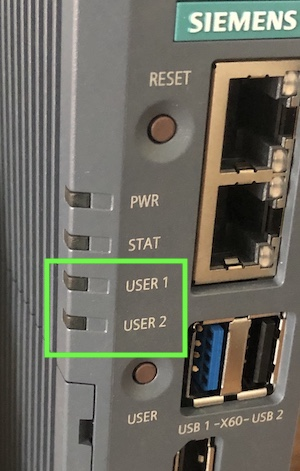
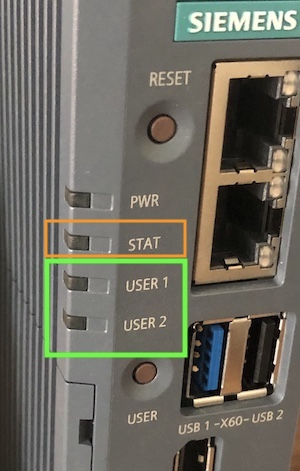
adds stats led description to user documentation

Changed region(s): [[0.12, 0.4459, 0.63, 0.5648]]

diff --git a/user-docs/i18n/jp/docusaurus-plugin-content-docs/current/LedStatusDisplay.md b/user-docs/i18n/jp/docusaurus-plugin-content-docs/current/LedStatusDisplay.md
@@ -2,46 +2,66 @@
 title: ステータスLED
 ---
 
-# ステータスLED
+# ステータス LED
 
 ## はじめに
 
-IoTconnector flexの現在の実行状況は、IoTconnector flexデバイスLEDの点灯状態で確認できます。
+There are 4 different LEDs on the `SIEMENS SIMATIC IOT2050` device:
+![IoTconnector flexのLED](/img/IoT2050Leds.png)
 
-`IoTconnector flex`デバイスには、2つのLEDがあります:
+- PWR: Displays the power status of the machine.
+- STAT: Displays the status of the Operating System (CELOS X)
+- USER 1 and USER 2: Controlled by the IoTconnector flex to display various purposes and explained below.
+
+### States of STAT LED
+
+The current status of the CELOS X Operating System is visualized by using the STATS LED of the device.
+
+| Status                                                                                                                                   | STATS LED             |
+| ---------------------------------------------------------------------------------------------------------------------------------------- | --------------------- |
+| U-Boot running (LED remains red if there is an error within U-Boot)                                                                      | RED                   |
+| GRUB running                                                                                                                             | ORANGE                |
+| GRUB fails to boot                                                                                                                       | RED BLINKING (1 Hz)   |
+| CELOS OS running with online connection                                                                                                  | GREEN                 |
+| CELOS OS running without online connection (at least one of the components cumulocity-agent, Netservice, CELOS Xchange is not connected) | GREEN BLINKING (1 Hz) |
+| CELOS OS emergency mode (i.e. unlock-data failed)                                                                                        | RED BLINKING (2 Hz)   |
+
+### USER 1 and USER 2 LEDs
+
+IoTconnector flex の現在の実行状況は、IoTconnector flex デバイス LED の点灯状態で確認できます。
+
+There are two different LEDs on the `SIEMENS SIMATIC IOT2050` device that are reflecting status of IoTconnector flex:
 
 - USER 1
 - USER 2
 
-![IoTconnector flexのLED](/img/IoT2050Leds.png)
-
-各LEDの点灯色は3種類あります:
+各 LED の点灯色は 3 種類あります:
 
 - 緑
 - 赤
 - オレンジ
 
-### USER 1 LEDの状態
+#### USER 1 LED の状態
 
 USER 1 の LED は、現在のコンフィギュレーション状態を表示します:
 
 - オレンジの点滅 (設定されていない/利用規約に同意していない)
-- オレンジ ([`設定済み`](LedStatusDisplay.md#what-does-configured-mean) だが、NCに接続されていない)
-- 緑 ([`設定済み`](LedStatusDisplay.md#what-does-configured-mean) かつ、NCに正常に接続されている)
+- オレンジ ([`設定済み`](LedStatusDisplay.md#what-does-configured-mean) だが、NC に接続されていない)
+- 緑 ([`設定済み`](LedStatusDisplay.md#what-does-configured-mean) かつ、NC に正常に接続されている)
 
-### USER 2 LEDの状態
+#### USER 2 LED の状態
 
-USER 2 LEDは2つの状態しかありません:
+USER 2 LED は 2 つの状態しかありません:
 
-- 消灯 (IoTconnector flexは動作していません)
-- 緑 (IoTconnector flexは動作しています)
+- 消灯 (IoTconnector flex は動作していません)
+- 緑 (IoTconnector flex は動作しています)
 - 赤点滅 (ライセンスがありません)
 
-### コンフィギュレーションとは何ですか？
+#### コンフィギュレーションとは何ですか？
 
 ステータス `設定済み` は次のように定義されます:
 
-- 有効なデータソースが1つある
-- この有効なソースに対して最低1つの有効なデータポイント
-- 最低1つのデータポイントを持つ1つの有効なアプリケーションインターフェイス
-- 有効な接続データソースデータポイントと有効なアプリケーションインターフェイスデータポイントの間の1つの有効ななマッピング
+- 有効なデータソースが 1 つある
+- この有効なソースに対して最低 1 つの有効なデータポイント
+- 最低 1 つのデータポイントを持つ 1 つの有効なアプリケーションインターフェイス
+- 有効な接続データソースデータポイントと有効なアプリケーションインターフェイスデータポイントの間の 1 つの有効ななマッピング

diff --git a/user-docs/docs/LedStatusDisplay.md b/user-docs/docs/LedStatusDisplay.md
@@ -6,14 +6,34 @@ title: Status LEDs
 
 ## Introduction
 
+There are 4 different LEDs on the `SIEMENS SIMATIC IOT2050` device:
+![SIEMENS SIMATIC IOT2050 LEDs](/img/IoT2050Leds.png)
+
+- PWR: Displays the power status of the machine.
+- STAT: Displays the status of the Operating System (CELOS X)
+- USER 1 and USER 2: Controlled by the IoTconnector flex to display various purposes and explained below.
+
+### States of STAT LED
+
+The current status of the CELOS X Operating System is visualized by using the STATS LED of the device.
+
+| Status                                                                                                                                   | STATS LED             |
+| ---------------------------------------------------------------------------------------------------------------------------------------- | --------------------- |
+| U-Boot running (LED remains red if there is an error within U-Boot)                                                                      | RED                   |
+| GRUB running                                                                                                                             | ORANGE                |
+| GRUB fails to boot                                                                                                                       | RED BLINKING (1 Hz)   |
+| CELOS OS running with online connection                                                                                                  | GREEN                 |
+| CELOS OS running without online connection (at least one of the components cumulocity-agent, Netservice, CELOS Xchange is not connected) | GREEN BLINKING (1 Hz) |
+| CELOS OS emergency mode (i.e. unlock-data failed)                                                                                        | RED BLINKING (2 Hz)   |
+
+### USER 1 and USER 2 LEDs
+
 The current runtime status of IoTconnector flex is also directly visible on the `SIEMENS SIMATIC IOT2050` device and displayed by different LEDs and with different colors.
 
-There are two different LEDs on the `SIEMENS SIMATIC IOT2050` device:
+There are two different LEDs on the `SIEMENS SIMATIC IOT2050` device that are reflecting status of IoTconnector flex:
 
 - USER 1
 - USER 2
-
-![SIEMENS SIMATIC IOT2050 LEDs](/img/IoT2050Leds.png)
 
 and three different colors for each LED:
 
@@ -21,7 +41,7 @@ and three different colors for each LED:
 - Red
 - Orange
 
-### States of USER 1 LED
+#### States of USER 1 LED
 
 USER 1 LED displays the current configuration state:
 
@@ -29,14 +49,14 @@ USER 1 LED displays the current configuration state:
 - orange ([`configured`](LedStatusDisplay.md#what-does-configured-mean) but not connected to NC)
 - green ([`configured`](LedStatusDisplay.md#what-does-configured-mean) and successfully connected to NC)
 
-### States of USER 2 LED
+#### States of USER 2 LED
 
 USER 2 LED has only 2 states:
 
 - Off (IoTconnector flex is not running)
 - Green (IoTconnector flex is running)
 
-### What does `configured` mean?
+#### What does `configured` mean?
 
 The status `configured` is defined as:
 

diff --git a/user-docs/i18n/de/docusaurus-plugin-content-docs/current/LedStatusDisplay.md b/user-docs/i18n/de/docusaurus-plugin-content-docs/current/LedStatusDisplay.md
@@ -4,14 +4,34 @@ title: Status LEDs
 
 ## Einleitung
 
+Auf dem Gerät `SIEMENS SIMATIC IOT2050` befinden sich 4 verschiedene LEDs:
+![SIEMENS SIMATIC IOT2050 LEDs](/img/IoT2050Leds.png)
+
+- PWR: Zeigt den Energiestatus des Geräts an.
+- STAT: Zeigt den Status des Betriebssystems (CELOS X) an
+- USER 1 and USER 2: Gesteuert durch den IoTconnector flex zur Anzeige verschiedener Zwecke, die im Folgenden erläutert werden.
+
+### Zustände der STAT LED
+
+Der aktuelle Status der CELOS X Operating System wird über die STATS-LED des Gerätes visualisiert.
+
+| Zustand                                                                                                                   | STATS LED            |
+| ------------------------------------------------------------------------------------------------------------------------- | -------------------- |
+| U-Boot läuft (LED bleibt rot falls es Fehler innerhalb von U-Boot gibt)                                                   | ROT                  |
+| GRUB läuft                                                                                                                | ORANGE               |
+| GRUB bootet nicht                                                                                                         | ROT BLINKEND (1 Hz)  |
+| CELOS OS läuft mit Online-Verbindung                                                                                      | GRÜN                 |
+| CELOS OS läuft ohne Online-Verbindung (mindestens einer von cumulocity-agent, Netservice, CELOS Xchange ist nicht online) | GRÜN BLINKEND (1 Hz) |
+| CELOS OS emergency mode (i.e. unlock-data fehlgeschlagen)                                                                 | ROT BLINKEND (2 Hz)  |
+
+### USER 1 und USER 2 LEDs
+
 Der aktuelle Laufzeitstatus von IoTconnector flex ist auch direkt auf dem `SIEMENS SIMATIC IOT2050` Gerät sichtbar und wird durch verschiedene LEDs und mit unterschiedlichen Farben angezeigt.
 
-Es gibt zwei verschiedene LEDs auf dem `SIEMENS SIMATIC IOT2050` Gerät:
+Es gibt zwei verschiedene LEDs auf dem `SIEMENS SIMATIC IOT2050` Gerät, dass das den Status von IoTconnector flex widerspiegelt:
 
 - USER 1
 - USER 2
-
-![SIEMENS SIMATIC IOT2050 LEDs](/img/IoT2050Leds.png)
 
 und drei verschiedene Farben für jede LED:
 
@@ -27,7 +47,7 @@ Die USER 1 LED zeigt den aktuellen Konfigurationsstatus an:
 - orange ([`konfiguriert`](LedStatusDisplay.md#what-does-configured-mean) aber nicht mit NC verbunden)
 - grün ([`konfiguriert`](LedStatusDisplay.md#what-does-configured-mean) und erfolgreich mit der NC verbunden)
 
-### Zustände der USER 2 LED
+#### Zustände der USER 2 LED
 
 Die USER 2 LED hat nur 2 Zustände:
 
@@ -35,7 +55,7 @@ Die USER 2 LED hat nur 2 Zustände:
 - Grün (IoTconnector flex ist in Betrieb)
 - Rot blinkend (Lizenz fehlt)
 
-### Was bedeutet "konfiguriert"?
+#### Was bedeutet "konfiguriert"?
 
 Der Status `konfiguriert` ist definiert als:
 
